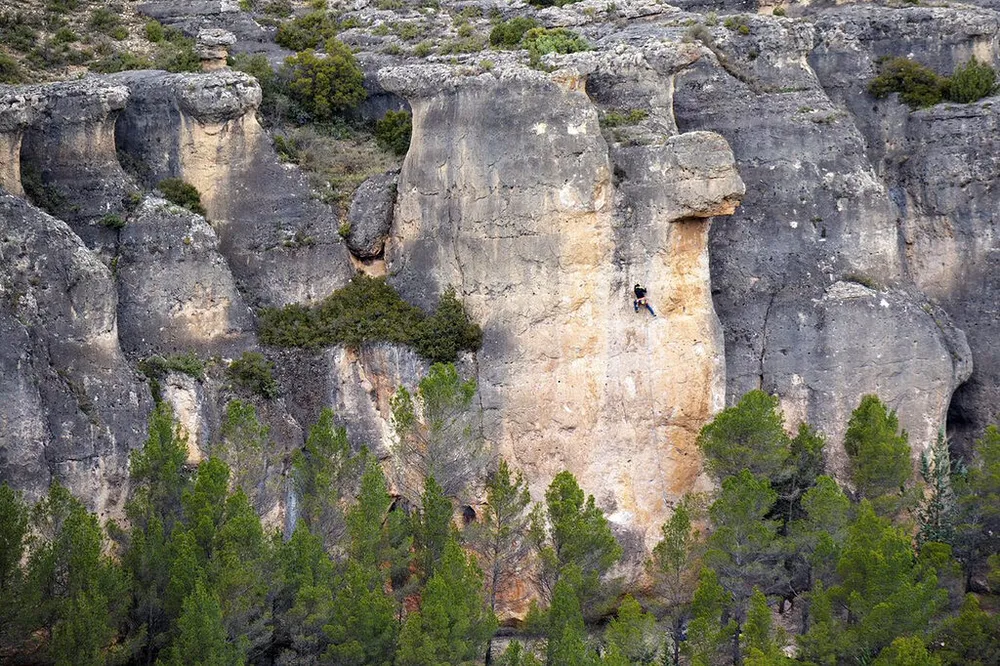
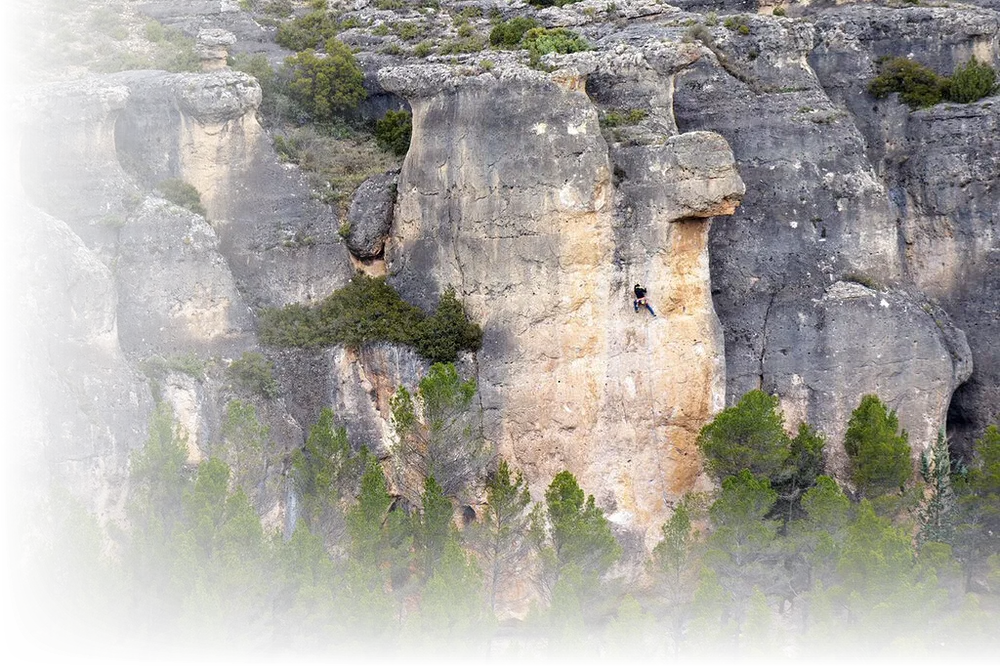
Foto de Cuenca con bordes difuminados
Claude-Session: https://claude.ai/code/session_0158yjdMTcLitM4h8Eoe7CVa

diff --git a/sw.js b/sw.js
@@ -4,7 +4,7 @@
  * PWA completa con soporte offline
  */
 
-const CACHE_VERSION = 'v238';
+const CACHE_VERSION = 'v240';
 const CACHE_NAME = `krux-cache-${CACHE_VERSION}`;
 const DATA_CACHE_NAME = `krux-data-${CACHE_VERSION}`;
 const OFFLINE_URL = './offline.html';
